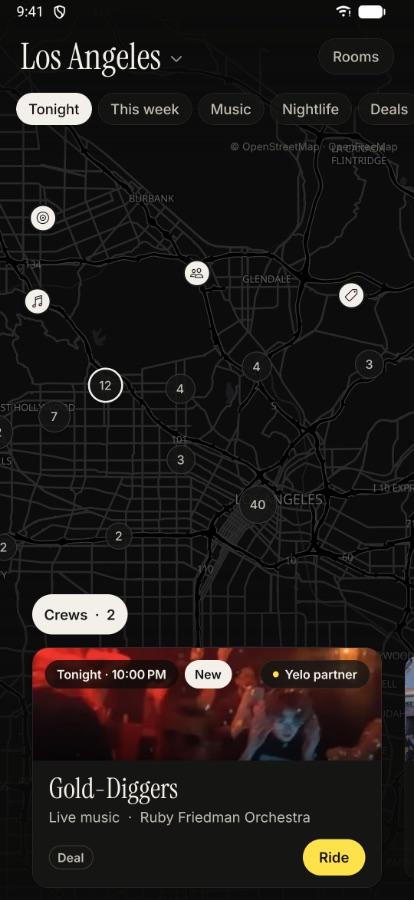
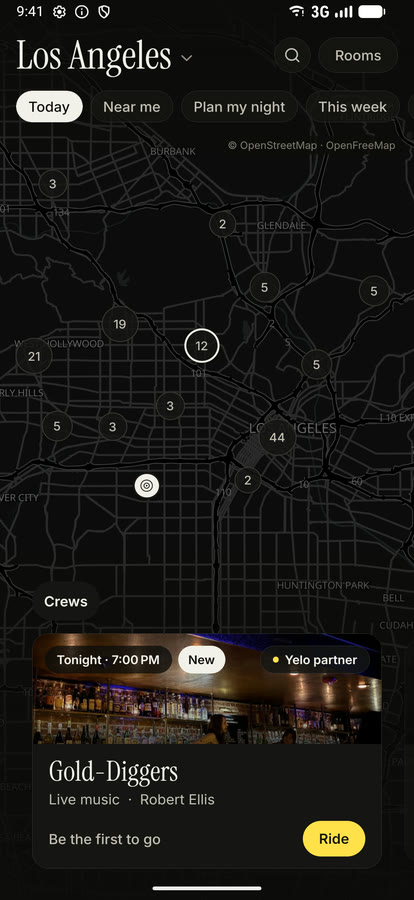
Site: LA screenshot shows the current header (#44)

diff --git a/site/index.html b/site/index.html
@@ -173,7 +173,7 @@
       <p>Real screens from the app, with live data the agent found on the web this week.</p>
     </div>
     <div class="screens">
-      <figure><img src="shot-map-la.jpg" alt="Los Angeles tonight: numbered bubbles across the city, a bubble ringed for a Yelo partner, and a card for Gold-Diggers at 10 PM" loading="lazy" width="414" height="900">
+      <figure><img src="shot-map-la.jpg" alt="Los Angeles today: search, Near me and Plan my night above numbered bubbles across the city, and a card for Gold-Diggers, a Yelo partner, tonight at 7 PM" loading="lazy" width="414" height="900">
         <figcaption><b>One map for the night</b>New York and Los Angeles, refreshed every few minutes. Search for “jazz” or “under $20”, see which happy hours are on now, or tap Plan my night for a route of two or three stops close together.</figcaption></figure>
       <figure><img src="shot-spot.jpg" alt="Nublu, a Yelo partner, started at 10 PM: Maya and you are going, your crew is leaving now and both of you are on the way, and Ride with Yelo" loading="lazy" width="414" height="900">
         <figcaption><b>Ride there</b>Each spot shows the time, the address, which friends are going, and the ride there with its price.</figcaption></figure>
